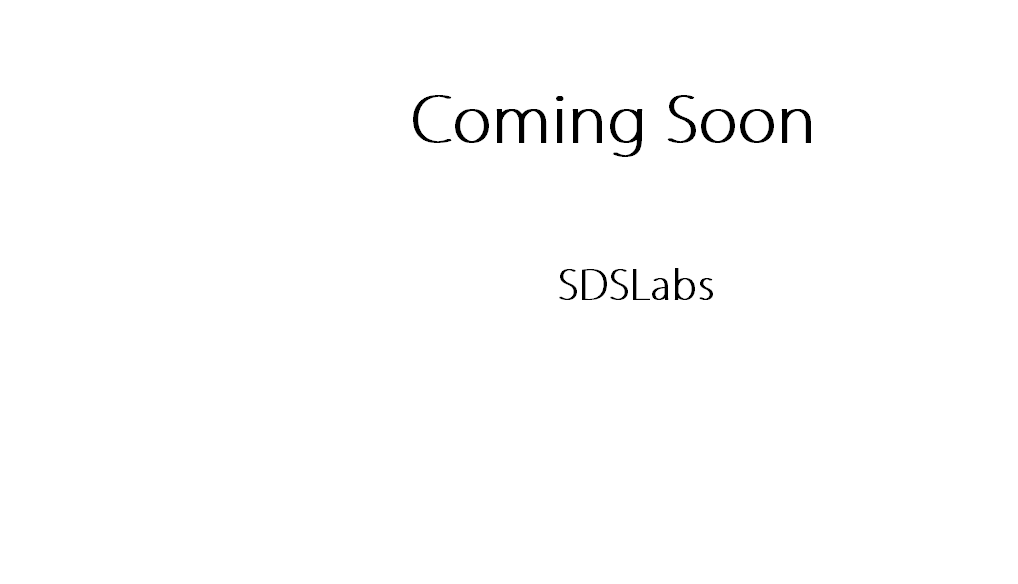
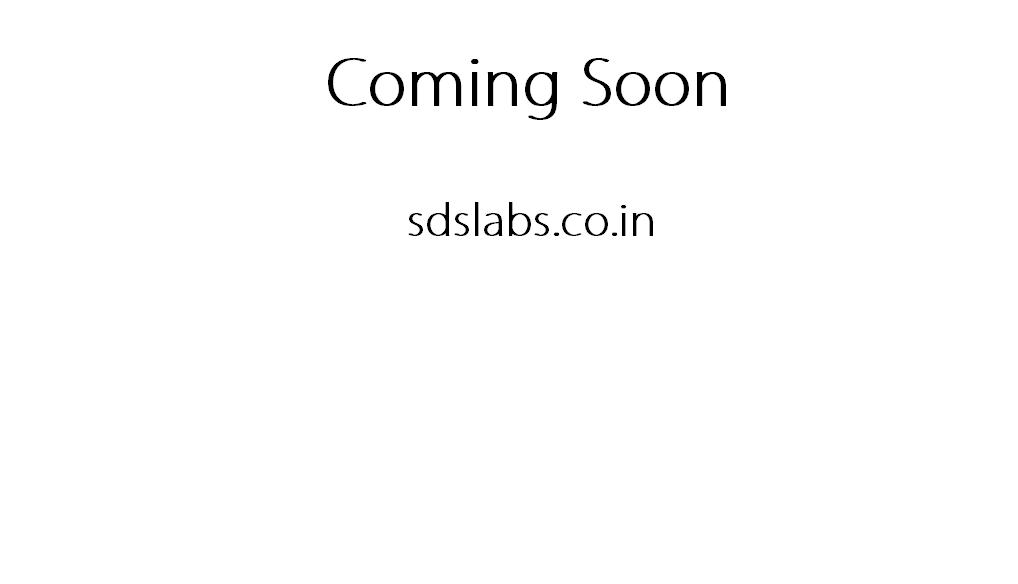
changed sdslabs to sdslabs.co.in

Changed region(s): [[0.3045, 0.0925, 0.8222, 0.2774], [0.3959, 0.339, 0.6395, 0.4007], [0.5481, 0.4623, 0.7004, 0.524]]

diff --git a/style.css b/style.css
@@ -4,7 +4,7 @@
 			left:11%;
 			height:80%;
 			width:70%;
-			background:url('images/sds.jpg') no-repeat;
+			background:url('images/sds.png') no-repeat;
 			}
 #container div{position:absolute;
 				height:130px;
